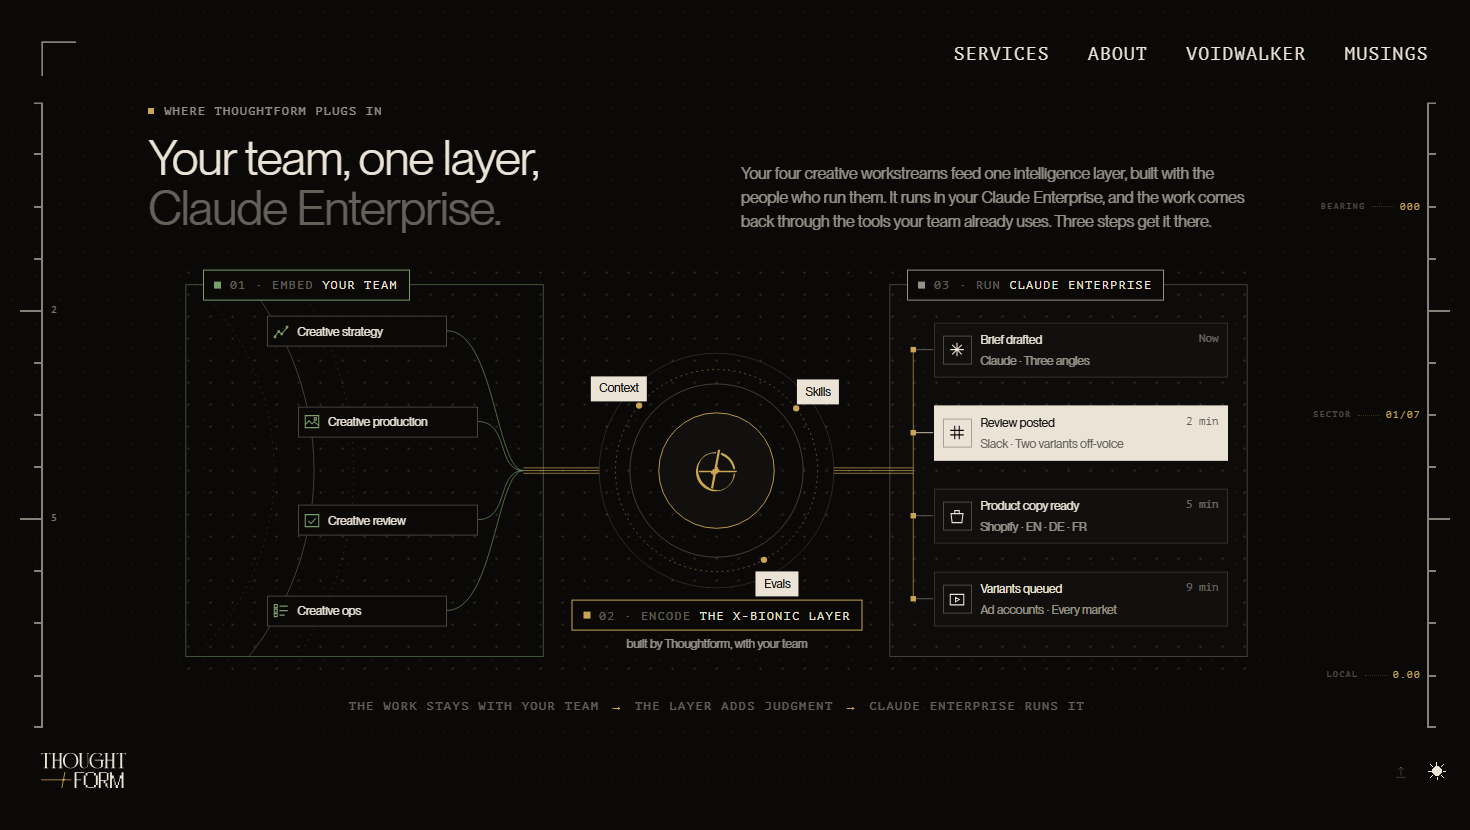
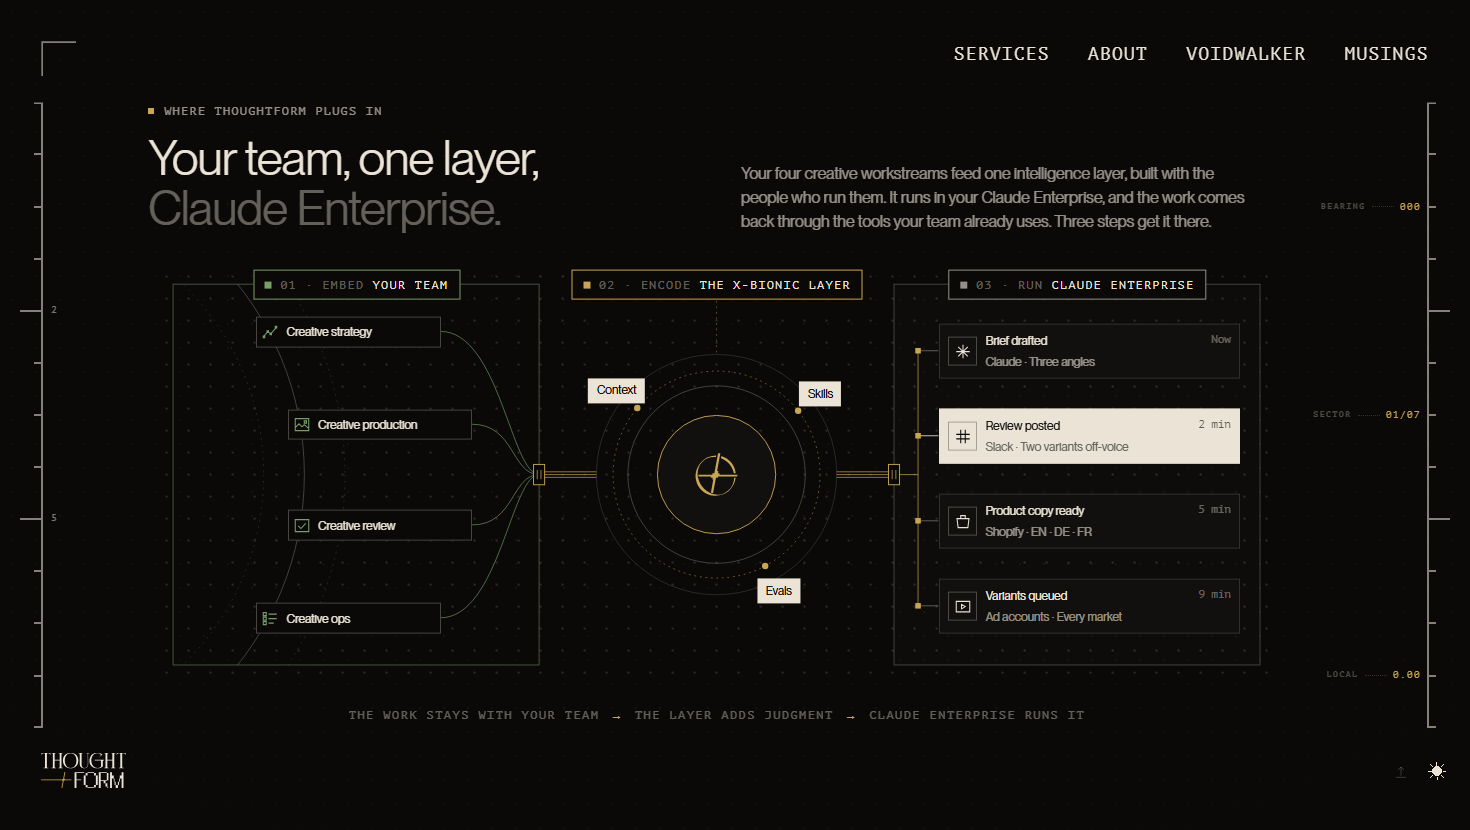
feat(test): the plug flow's tabs on one line, its lines through ports
The three tabs sit centred on one line along the top, the layer's tied
down to its ring by a hairline; the bundles end on ports on the frames'
edges instead of crossing their lines; the caption under the layer is
gone; the figure may run up to 72px past the band each side.

diff --git a/components/xb-proposal/plug/PlugFlow.tsx b/components/xb-proposal/plug/PlugFlow.tsx
@@ -39,7 +39,10 @@ const RIGHT = { x0: 792, x1: 1188, y0: 24, y1: 436 };
 /* The arc the teams sit on: a circle centred off the left frame. */
 const ARC = { x: -176, y: 230, r: 330 };
 const CHIP_W = 200;
-const MERGE_X = 386;
+/* The bundles leave and enter through PORTS on the frames' edges, never
+   across a frame line (owner: the frames were "interjecting with the golden
+   lines"). */
+const MERGE_X = LEFT.x1;
 const RING = [130, 112, 96];
 const CORE = 64;
 const BUS_X = 818;
@@ -146,18 +149,27 @@ function Bundle({ x0, x1, y, d }: { x0: number; x1: number; y: number; d: string
   );
 }
 
+/** A port on a frame's edge: the bundle ends on it instead of crossing the
+    frame's line, which the port's own ground covers. */
+function Port({ x, y }: { x: number; y: number }) {
+  return (
+    <g className="pl-port">
+      <rect x={x - 6} y={y - 11} width={12} height={22} />
+      <path d={`M${x - 2} ${y - 5}V${y + 5} M${x + 2} ${y - 5}V${y + 5}`} />
+    </g>
+  );
+}
+
 /** A frame's tab: the step and the part it names, linking to the step. */
 function Tab({
   id,
   x,
   y,
-  align = "start",
   d,
 }: {
   id: (typeof PLUG_STEPS)[number]["id"];
   x: number;
   y: number;
-  align?: "start" | "center";
   d: string;
 }) {
   const st = STEP[id];
@@ -166,7 +178,6 @@ function Tab({
       href={`#${stepAnchor(id)}`}
       className="pl-tab pl-in"
       data-tone={st.tone}
-      data-align={align}
       style={{ ...at(x, y), "--d": d } as CSSProperties}
     >
       <i aria-hidden />
@@ -256,7 +267,8 @@ export function PlugFlow() {
               />
             );
           })}
-          <Bundle x0={MERGE_X} x1={C.x - RING[0]} y={C.y} d="620ms" />
+          <Bundle x0={MERGE_X + 6} x1={C.x - RING[0]} y={C.y} d="620ms" />
+          <Port x={LEFT.x1} y={C.y} />
 
           {/* the layer */}
           <g className="pl-core">
@@ -280,7 +292,17 @@ export function PlugFlow() {
 
           {/* out: one bundle into Claude Enterprise, onto a bus that feeds
               every interface */}
-          <Bundle x0={C.x + RING[0]} x1={BUS_X} y={C.y} d="1100ms" />
+          <Bundle x0={C.x + RING[0]} x1={RIGHT.x0 - 6} y={C.y} d="1100ms" />
+          <Port x={RIGHT.x0} y={C.y} />
+          <path
+            d={`M${RIGHT.x0 + 6} ${C.y}H${BUS_X}`}
+            className="pl-bus pl-draw"
+            style={{ "--d": "1250ms" } as CSSProperties}
+            pathLength={1}
+          />
+          {/* the layer's tab sits on the top line with the frames' tabs;
+              a hairline ties it down to the ring */}
+          <path d={`M${C.x} ${LEFT.y0 + 18}V${C.y - RING[0]}`} className="pl-tie" />
           <path
             d={`M${BUS_X} ${CARD_Y[0]}V${CARD_Y[3]}`}
             className="pl-bus pl-draw"
@@ -301,8 +323,10 @@ export function PlugFlow() {
         </svg>
 
         {/* words: DOM, seated in the frame's own units */}
-        <Tab id="embed" x={LEFT.x0 + 18} y={LEFT.y0} d="0ms" />
-        <Tab id="run" x={RIGHT.x0 + 18} y={RIGHT.y0} d="1200ms" />
+        {/* the three tabs, centred, on one line along the top */}
+        <Tab id="embed" x={(LEFT.x0 + LEFT.x1) / 2} y={LEFT.y0} d="0ms" />
+        <Tab id="encode" x={C.x} y={LEFT.y0} d="800ms" />
+        <Tab id="run" x={(RIGHT.x0 + RIGHT.x1) / 2} y={RIGHT.y0} d="1200ms" />
 
         {TEAMS.map((t, i) => {
           const [x, y] = onArc(t.deg);
@@ -332,14 +356,6 @@ export function PlugFlow() {
             </div>
           );
         })}
-
-        <Tab id="encode" x={C.x} y={C.y + RING[0] + 30} align="center" d="800ms" />
-        <div
-          className="pl-cap pl-in"
-          style={{ ...at(C.x, C.y + RING[0] + 52), "--d": "850ms" } as CSSProperties}
-        >
-          built by Thoughtform, with your team
-        </div>
 
         {CARDS.map((c, i) => (
           <div

diff --git a/components/xb-proposal/plug/plug.css b/components/xb-proposal/plug/plug.css
@@ -25,17 +25,19 @@
 }
 
 .pl-fig {
-  position: relative;
-  align-self: center;
-  justify-self: center;
-  margin: 0 0 48px;
-  /* bound by the width AND the height the head and the step key leave */
-  width: min(
-    100%,
+  /* wider than the band is allowed (owner): up to 72px past it each side,
+     bound by the height the head and the footer line leave */
+  --pl-w: min(
+    calc(100% + 144px),
     calc(
-      (100svh - var(--hud-rail-y-start, 96px) - var(--hud-rail-y-end, 72px) - 210px) * 1200 / 460
+      (100svh - var(--hud-rail-y-start, 96px) - var(--hud-rail-y-end, 72px) - 200px) * 1200 / 460
     )
   );
+  position: relative;
+  align-self: center;
+  justify-self: start;
+  width: var(--pl-w);
+  margin: 0 0 48px calc((100% - var(--pl-w)) / 2);
   aspect-ratio: 1200 / 460;
   container-type: inline-size;
   /* the dotted field Cluster's flow sits on */
@@ -150,12 +152,6 @@
   white-space: nowrap;
 }
 
-.pl-cap {
-  transform: translateX(-50%);
-  white-space: nowrap;
-  font-family: var(--xb-sans);
-  color: var(--xb-text-2);
-}
 .pl-card {
   transform: translateY(-50%);
   width: calc(var(--w) * 100%);
@@ -240,10 +236,25 @@
 .pl-tap {
   fill: var(--xb-gold);
 }
+.pl-port rect {
+  fill: var(--xb-ground);
+  stroke: var(--xb-gold);
+}
+.pl-port path {
+  fill: none;
+  stroke: var(--xb-gold);
+  stroke-opacity: 0.8;
+}
+.pl-tie {
+  fill: none;
+  stroke: var(--xb-gold);
+  stroke-opacity: 0.45;
+  stroke-dasharray: 2 4;
+}
 
 .pl-tab {
   --tone: var(--xb-text-2);
-  transform: translateY(-50%);
+  transform: translate(-50%, -50%);
   display: inline-flex;
   align-items: center;
   gap: 0.7em;
@@ -255,9 +266,6 @@
   text-transform: uppercase;
   text-decoration: none;
   white-space: nowrap;
-}
-.pl-tab[data-align="center"] {
-  transform: translate(-50%, -50%);
 }
 .pl-tab[data-tone="green"] {
   --tone: var(--pl-green);
